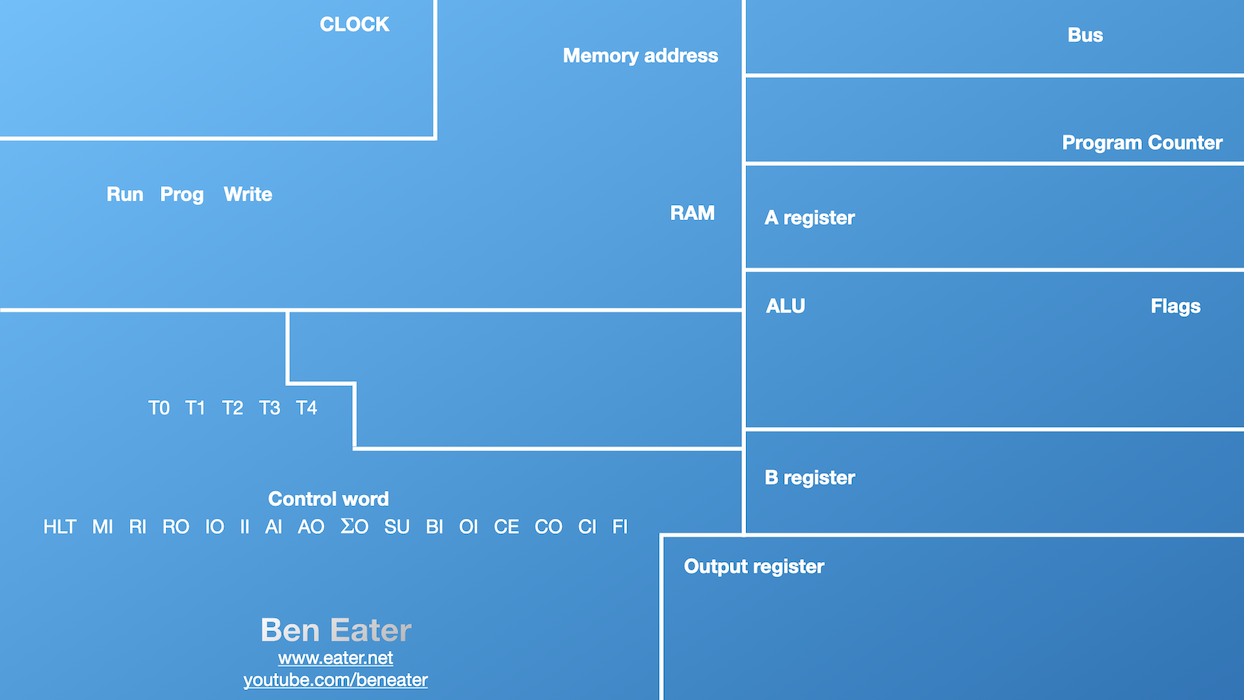
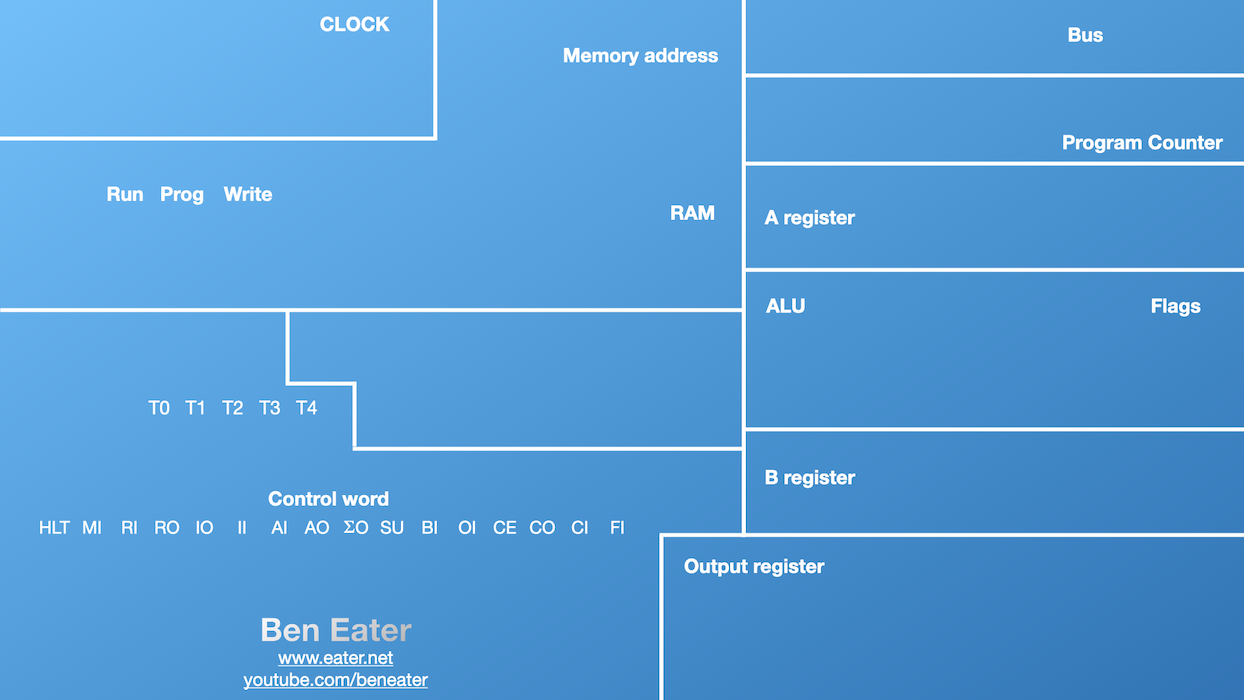
Updated background image and added control word lights.

Changed region(s): [[0.0305, 0.72, 0.5193, 0.78]]

diff --git a/layout.py b/layout.py
@@ -53,3 +53,12 @@ mem_address_x_arr = [595 + i*30 for i in range(4)]
 mem_address_meta = [Light(x=x, y=85, r=LIGHT_R,
                           off_c=mem_address_off_c, 
                           on_c=mem_address_on_c) for x in mem_address_x_arr]
+
+
+# Define control word lights
+cont_wrd_on_c = '#eff5f9'
+cont_wrd_off_c = '#b0cfe4'
+cont_wrd_x_arr = [56 + i*37.33 for i in range(16)]
+cont_wrd_meta = [Light(x=x, y=550, r=LIGHT_R,
+                          off_c=cont_wrd_off_c, 
+                          on_c=cont_wrd_on_c) for x in cont_wrd_x_arr]

diff --git a/main.py b/main.py
@@ -33,6 +33,10 @@ def main():
     for l in mem_address_meta:
         l.build(canvas_bg)
 
+    # Draw control word lights
+    for l in cont_wrd_meta:
+        l.build(canvas_bg)
+
     # Create a button and add it on top of the background image
     button = tk.Button(root, text="Click Me", 
                        command=lambda: clock_light_meta.toggle(canvas_bg))
